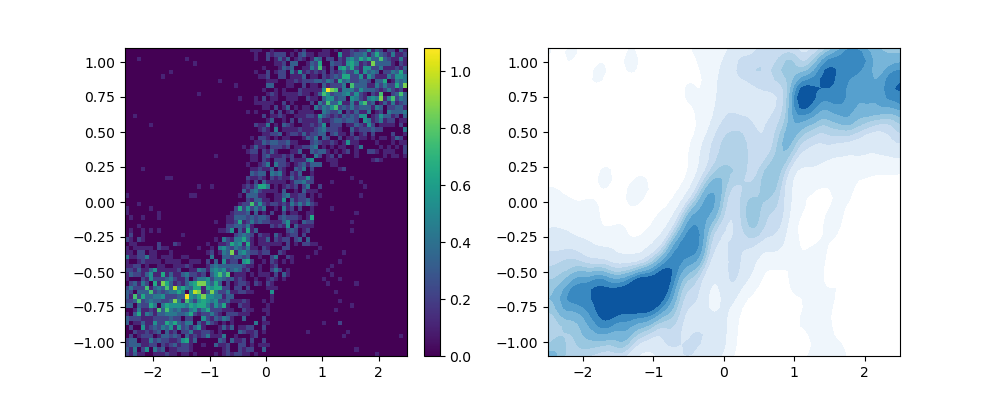
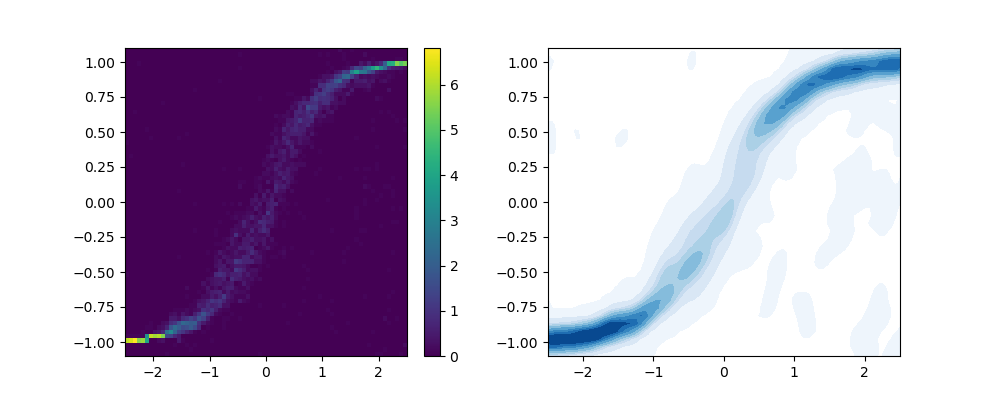
committing stuff

diff --git a/scripts/transport/kvae_flow.py b/scripts/transport/kvae_flow.py
@@ -323,11 +323,10 @@ class CondTransportKernel(nn.Module):
         map_vec = self.map(x_mu, y_eta, y_mean, y_var)['y']
 
         x, y = map_vec.T.detach().cpu().numpy()
-        plt.hist2d(x, y, bins=75, range=[[-2.5, 2.5], [-1.1, 1.1]], vmax=2)
-        plt.savefig('map_vec1.png')
+        plt.hist2d(x, y, bins=65, range=[[-1.05, -1.05], [-1.05, 1.05]], vmax=7)
+        plt.savefig('elden_map.png')
         clear_plt()
-
-        sample_hmap(map_vec, 'gen_map1.png', bins=50, d=2, range=[[-2.5,2.5],[-1.1,1.1]], vmax=2)
+        sample_hmap(map_vec, 'elden_hist.png', bins=65, d=2, range=[[-1.05, -1.05], [-1.05, 1.05]], vmax=7)
         clear_plt()
         return self.mmd(map_vec, target)
 
@@ -674,13 +673,7 @@ def vl_exp(N=10000, n_iter=31, Yd=18, normal=True, exp_name='vl_exp'):
 
 
 def run():
-    ref_gen = sample_normal
-    target_gen = mgan2
-    N = 600
-    two_d_exp(ref_gen, target_gen, N, n_iter=101, plt_range=[[-2.5,2.5],[-1.1,1.1]], process_funcs=[],
-               slice_vals=[-1,0,1], slice_range=[-1.5,1.5], exp_name='exp', skip_idx=1, vmax=None, n_transports=55)
-
-    #elden_exp(8000, n_iter=101, n_transports=100)
+    elden_exp(10000, n_iter=101, n_transports=250)
 
 if __name__=='__main__':
     run()

diff --git a/scripts/transport/c_transport.py b/scripts/transport/c_transport.py
@@ -146,14 +146,6 @@ class CondTransportKernel(nn.Module):
         if not self.params['approx']:
             self.Y_approx = deepcopy(self.Y_eta)
 
-        plt.hist(self.Y_eta.detach().cpu().numpy())
-        plt.savefig('Y_eta_hist1.png')
-        clear_plt()
-
-        plt.hist(self.Y_approx.detach().cpu().numpy())
-        plt.savefig('Y_approx_hist1.png')
-        clear_plt()
-
         self.Y = torch.concat([self.X_mu, self.Y_mu], dim=1)
 
         self.Nx = len(self.X)
@@ -178,7 +170,6 @@ class CondTransportKernel(nn.Module):
         self.X_mu_test = geq_1d(torch.tensor(base_params['X_mu_test'], device=self.device, dtype=self.dtype))
         self.Y_mu_test = geq_1d(torch.tensor(base_params['Y_mu_test'], device=self.device, dtype=self.dtype))
         self.Y_test = torch.concat([self.X_mu_test, self.Y_mu_test], dim=1)
-
 
 
         self.alpha_z = self.p_vec(self.Nx)
